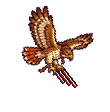
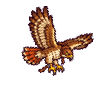
Ranger: launch pose with his arm raised; the hawk card without claw rakes
The owner's notes on the first version: the three scratches under the hawk are dropped (the card
is stronger without them), and the ranger's attack pose now has his arm raised and flung toward
the target, hand open, as though he has just launched his hawk.

The arm is redrawn on the real sprite: a rough limb painted on the hawk-free sprite, redrawn by
the local Klein model with the pose LoRA (image-to-image, the sprite as reference), then shrunk,
keyed, snapped to the sprite's colours and taken only in the arm's region, so the rest stays the
sprite's own pixels (anim-sprint/lib/ranger_launch.py; ANIMATING_UNITS.md has the method).

Presentation only: no rules change.

Changed region(s): [[0.4636, 0.5625, 0.7091, 0.8036]]

diff --git a/anim-sprint/lib/ranger_launch.py b/anim-sprint/lib/ranger_launch.py
@@ -1,0 +1,129 @@
+"""The ranger's launch pose (crates/ffh-play/assets/app/pose/ranger_attack.png): his arm raised and flung outward,
+the hand open, as though he has just launched his hawk. A redrawn limb on the real sprite, in three steps
+(ANIMATING_UNITS.md, "Impact cards and key poses"):
+
+1. `guide OUT`: on the hawk-free sprite (`impact_cards.py pose ... --release-hawk`), the old bent forearm is cut away and
+   a rough outstretched arm painted in (green sleeve, leather forearm, a hand); written at 4x on magenta as
+   `OUT/init.png`, with the original sprite the same way as `OUT/ref.png`.
+2. The local model (lib/klein.py on the anim-all branch: FLUX 3 Image Klein with the pose LoRA, ComfyUI running) redraws
+   it image-to-image: `klein.edit(images=["ref.png"], init="init.png", denoise=0.65, n=2, prompt=...)`, the prompt
+   "the character from the first image, the ranger, redrawn with his left arm raised high and stretched straight out
+   toward the upper right, hand open with the fingers pointing outward, as though he has just launched a hawk from his
+   fist; no bird anywhere. Same face, hair, hood, outfit, colours, size and dark outlines as the first image. Full body
+   game unit sprite, 16-bit pixel art, on a flat magenta background." Pick a variant by eye (the shipped one was the
+   first of seed 2 at 0.65; 0.5 kept the arm shorter).
+3. `finish RENDER DST`: shrinks the render by its 4x4 blocks' most common colour, keys the magenta, snaps to the
+   sprite's own colours, takes only the arm's region from it (the rest stays the sprite's pixels), turns the magenta's
+   purple fringe into the outline and closes the outline round the arm.
+"""
+import sys
+from collections import Counter
+from pathlib import Path
+
+import numpy as np
+from PIL import Image, ImageDraw
+
+ROOT = Path(__file__).resolve().parents[2]
+MAG = (255, 0, 255, 255)
+sys.path.insert(0, str(Path(__file__).resolve().parent))
+from impact_cards import on_canvas, release_hawk  # noqa: E402
+
+
+def freed_sprite():
+    """The ranger with his hawk gone from his fist, on the 160x128 canvas."""
+    return on_canvas(release_hawk(Image.open(ROOT / "crates/ffh-play/assets/app/iso/unit_ranger.png").convert("RGBA")))
+
+
+def guide(OUT):
+    OUT = Path(OUT)
+    OUT.mkdir(parents=True, exist_ok=True)
+    orig = Image.open(ROOT / "crates/ffh-play/assets/app/iso/unit_ranger.png").convert("RGBA")
+    freed = freed_sprite().crop((32, 8, 128, 128))
+    glove = (170, 90, 24)
+    sleeve = (61, 94, 36)
+    # take the old bent forearm and fist away (right of the collar, below the shoulder)
+    a = freed.copy()
+    px = a.load()
+    for y in range(56, 76):
+        for x in range(53, 70):
+            px[x, y] = (0, 0, 0, 0)
+    d = ImageDraw.Draw(a)
+    OUTL = (30, 18, 30, 255)
+    # upper arm from the shoulder up and out to the elbow, the forearm on to the hand, fingers pointing out
+    pts = [(51, 64), (61, 57), (71, 47)]
+    for w, c in [(7, OUTL), (5, sleeve + (255,))]:
+        d.line(pts[:2], fill=c, width=w)
+    for w, c in [(7, OUTL), (5, glove + (255,))]:
+        d.line(pts[1:], fill=c, width=w)
+    d.ellipse((69, 42, 77, 50), fill=glove + (255,), outline=OUTL)
+    d.line([(75, 44), (81, 39)], fill=OUTL, width=3)
+    d.line([(75, 44), (80, 40)], fill=glove + (255,), width=1)
+
+
+    def mag4(im):
+        c = Image.new("RGBA", (160, 128), MAG)
+        c.alpha_composite(im, (32, 8))
+        return c.convert("RGB").resize((640, 512), Image.NEAREST)
+
+
+    mag4(orig).save(OUT / "ref.png")
+    mag4(a).save(OUT / "init.png")
+    a.save(OUT / "guide_1x.png")
+
+
+def finish(src, dst):
+    gen = np.array(Image.open(src).convert("RGB")).astype(int)
+    H, W = 128, 160
+    small = np.zeros((H, W, 4), np.uint8)
+    for y in range(H):
+        for x in range(W):
+            blk = gen[y * 4:(y + 1) * 4, x * 4:(x + 1) * 4].reshape(-1, 3)
+            # magenta-ish: red and blue high, green low
+            mag = (blk[:, 0] > 170) & (blk[:, 2] > 170) & (blk[:, 1] < 110)
+            if mag.sum() >= 8:
+                continue
+            keep = blk[~mag]
+            c = Counter(map(tuple, (keep // 8)))
+            q = np.array(c.most_common(1)[0][0])
+            near = keep[np.all(keep // 8 == q, axis=1)].mean(0)
+            small[y, x, :3] = near.round().astype(np.uint8)
+            small[y, x, 3] = 255
+    orig = Image.open(ROOT / "crates/ffh-play/assets/app/iso/unit_ranger.png").convert("RGBA")
+    pal = np.array(sorted({p[:3] for p in orig.get_flattened_data() if p[3] > 0}), int)
+    op = small[..., 3] > 0
+    cols = small[op, :3].astype(int)
+    d = ((cols[:, None, :] - pal[None, :, :]) ** 2).sum(-1)
+    small[op, :3] = pal[d.argmin(1)].astype(np.uint8)
+    base = np.array(freed_sprite())
+    # the arm's region on the 160x128 canvas (the sprite sits at 32, 8): right of the hood and above the belt
+    yy, xx = np.mgrid[0:H, 0:W]
+    region = (xx >= 32 + 52) & (yy >= 8 + 14) & (yy < 8 + 76)
+    out = base.copy()
+    out[region] = small[region]
+    # the magenta's fringe: purple pixels on the arm's edge become the outline, then close the outline round the arm
+    OUTL = (32, 11, 25)
+    rgb = out[..., :3].astype(int)
+    opq = out[..., 3] > 0
+    purple = region & opq & (rgb[..., 0] > 60) & (rgb[..., 2] > 60) & (rgb[..., 1] < 50)
+    out[purple, :3] = OUTL
+    opq = out[..., 3] > 0
+    light = opq & (out[..., :3].astype(int).sum(-1) >= 150)
+    ring = np.zeros_like(opq)
+    for dy, dx in [(-1, 0), (1, 0), (0, -1), (0, 1)]:
+        ring |= np.roll(np.roll(light, dy, 0), dx, 1)
+    ring &= region & ~opq
+    out[ring, :3] = OUTL
+    out[ring, 3] = 255
+    Image.fromarray(out).save(dst)
+    prev = Image.new("RGBA", (W, H), (70, 80, 60, 255))
+    prev.alpha_composite(Image.fromarray(out))
+    prev.resize((W * 4, H * 4), Image.NEAREST).save(Path(dst).with_name("preview_x4.png"))
+
+
+if __name__ == "__main__":
+    if sys.argv[1] == "guide":
+        guide(sys.argv[2])
+    elif sys.argv[1] == "finish":
+        finish(sys.argv[2], sys.argv[3])
+    else:
+        sys.exit(__doc__)

diff --git a/anim-sprint/lib/impact_cards.py b/anim-sprint/lib/impact_cards.py
@@ -187,21 +187,13 @@ def feather(d, x, y, ang, n, dark, light):
 
 def hawk(src: Path, out: Path):
     """The ranger's hawk striking, talons first: the hawk's strike frame (it faces right and dives on its talons, at
-    (90, 118) in the frame) placed so the talons land 44 px above the card's foot (the target's chest), three claw
-    rakes under them (front), and loose feathers (back). Faces right; the battle screen mirrors it for a blow toward
+    (90, 118) in the frame) placed so the talons land 44 px above the card's foot (the target's chest) (front), and
+    loose feathers (back). No claw marks: the owner found the card stronger without them. Faces right; the battle screen mirrors it for a blow toward
     the left."""
     W, H = 110, 112
     tx, ty = W // 2, H - 44
     bird = Image.open(src).convert("RGBA")
     front = Image.new("RGBA", (W, H), (0, 0, 0, 0))
-    d = ImageDraw.Draw(front)
-    # the rakes: three slashes down and forward of the talons, a white core in a dark-red rim and an outline
-    for k in range(3):
-        x0, y0 = tx - 6 + 6 * k, ty - 4 + 2 * k
-        x1, y1 = x0 + 14, y0 + 18
-        d.line([(x0, y0), (x1, y1)], fill=OUTLINE, width=4)
-        d.line([(x0, y0), (x1, y1)], fill=(170, 30, 36, 255), width=2)
-        d.line([(x0, y0 - 1), (x1, y1 - 1)], fill=(255, 248, 236, 255), width=1)
     front.alpha_composite(bird, (tx - 90, ty - 118))
     back = Image.new("RGBA", (W, H), (0, 0, 0, 0))
     d = ImageDraw.Draw(back)

diff --git a/anim-sprint/ANIMATING_UNITS.md b/anim-sprint/ANIMATING_UNITS.md
@@ -456,6 +456,12 @@ of 23.
   `--empty-bucket` paints the bucket empty. Without a set, one image-model edit of the static sprite gives a usable
   recoil (see "Combat presentation and spell effects" above: word the direction from where the sprite looks). Rule 1
   holds: the attack goes toward the side the sprite looks.
+- **A redrawn limb on the real sprite** (the ranger's launch pose: the owner wanted the arm raised and pointed
+  outward, which an erase alone could not give): cut the old limb away, paint a rough new one in the sprite's colours,
+  let the local model redraw it image-to-image (Klein with the pose LoRA, the original sprite as the reference,
+  denoise 0.65; 0.5 kept the rough limb's shape too closely), then shrink, key, snap to the sprite's own colours and
+  take only the limb's region from the render, so everything else stays the sprite's own pixels. Fix the magenta's
+  purple fringe and close the outline. `lib/ranger_launch.py` is the worked example (its docstring has the prompt).
 - **Impact cards:** draw them as pixel art, not as particles ("matter on the pixel grid", above). The rubble is
   code-drawn: angular stones with flat faces lit from the upper left, a 1 px dark outline, a crack each; ochre dust in
   four tones, posterized, roughened by value noise and edged with an ordered dither; a few dark flecks thrown up.
@@ -475,10 +481,11 @@ of 23.
   `battle_stage.js` as well (the list of files it loads).
 - `UNIT_CARDS` in `app/battle_stage.js`, by unit type: `{ UNIT_RANGER: "hawk" }`. A unit with a card of its own lands
   every blow as it, and its blows are staged as shots: it stays on its cell (stepping 6 px into the release) instead of
-  lunging across the field, and its strike's timing stays a strike's. The ranger's hawk is the first: his attack pose
-  is the sprite with the hawk gone from his fist (`--release-hawk`), and the card is the hawk's own strike frame
-  diving talons first, with three claw rakes and loose feathers. A unit without an attack pose keeps its sprite (the
-  lizardman ranger's art still shows its hawk on its shoulder).
+  lunging across the field, and its strike's timing stays a strike's. The ranger's hawk is the first. His attack
+  pose is his arm raised and flung toward the target, hand open, the hawk just launched (`lib/ranger_launch.py`,
+  below). The card is the hawk's own strike frame diving talons first, with loose feathers behind the target. Claw
+  rakes under the talons were tried and dropped: the owner found the card stronger without them. A unit without an
+  attack pose keeps its sprite (the lizardman ranger's art still shows its hawk on its shoulder).
 - `DIRECTED_CARDS` in `app/battle_snap.js`: cards drawn facing right (the hawk), mirrored about their own centre for a
   blow toward the left. The rubble is not directed.
 - `crates/ffh-play/build.rs` embeds `app/pose` and `app/fx` (the server and the static site); new files there need
